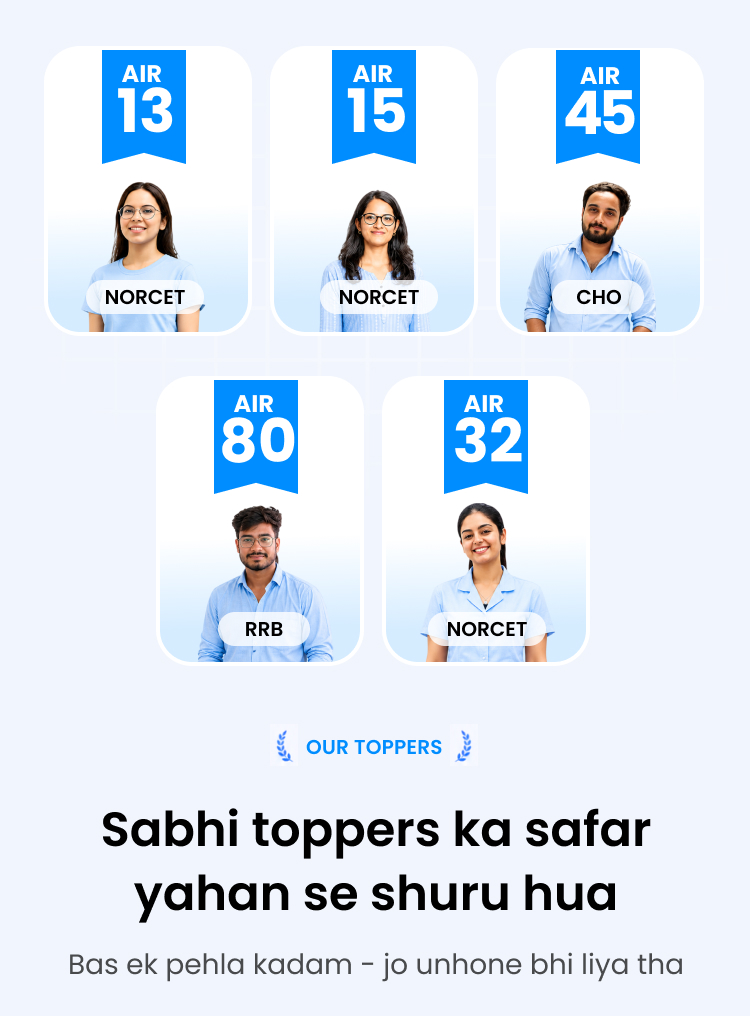
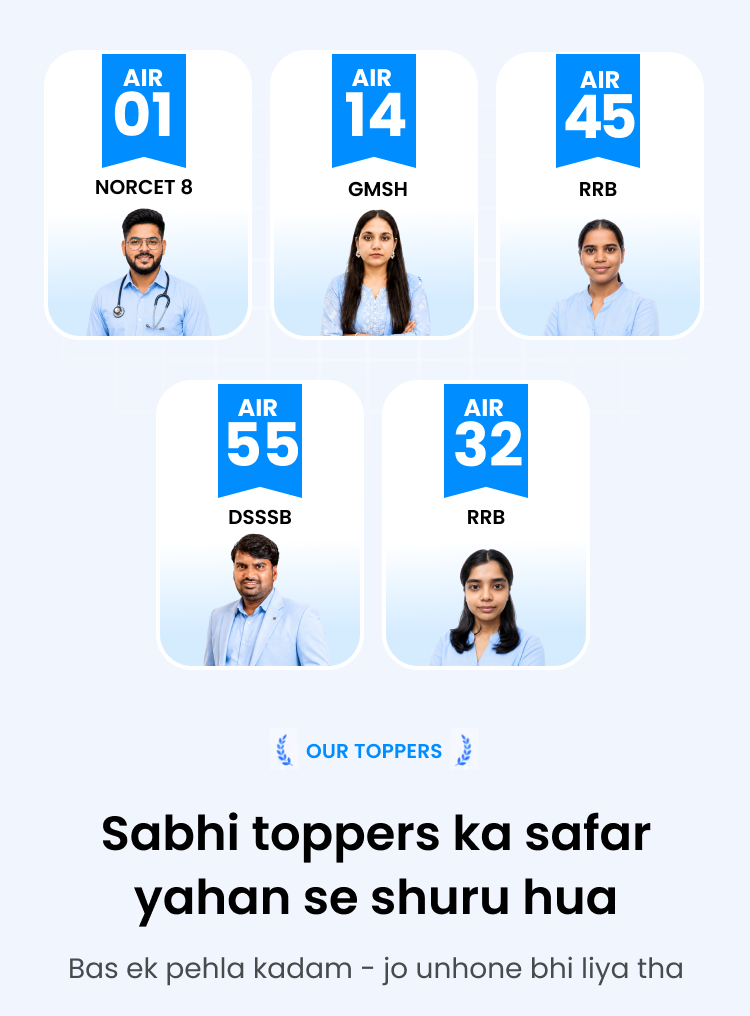
new changes

diff --git a/index.html b/index.html
@@ -5,7 +5,7 @@
     <link rel="icon" type="image/svg+xml" href="/favicon.svg" />
     <meta name="viewport" content="width=device-width, initial-scale=1.0" />
     <title>NPrep · Onboarding 2.0 Prototype</title>
-    <script type="module" crossorigin src="/assets/index-BMPeje__.js"></script>
+    <script type="module" crossorigin src="/assets/index-kr7RASZX.js"></script>
     <link rel="stylesheet" crossorigin href="/assets/index-Dp6RfoO2.css">
   </head>
   <body>